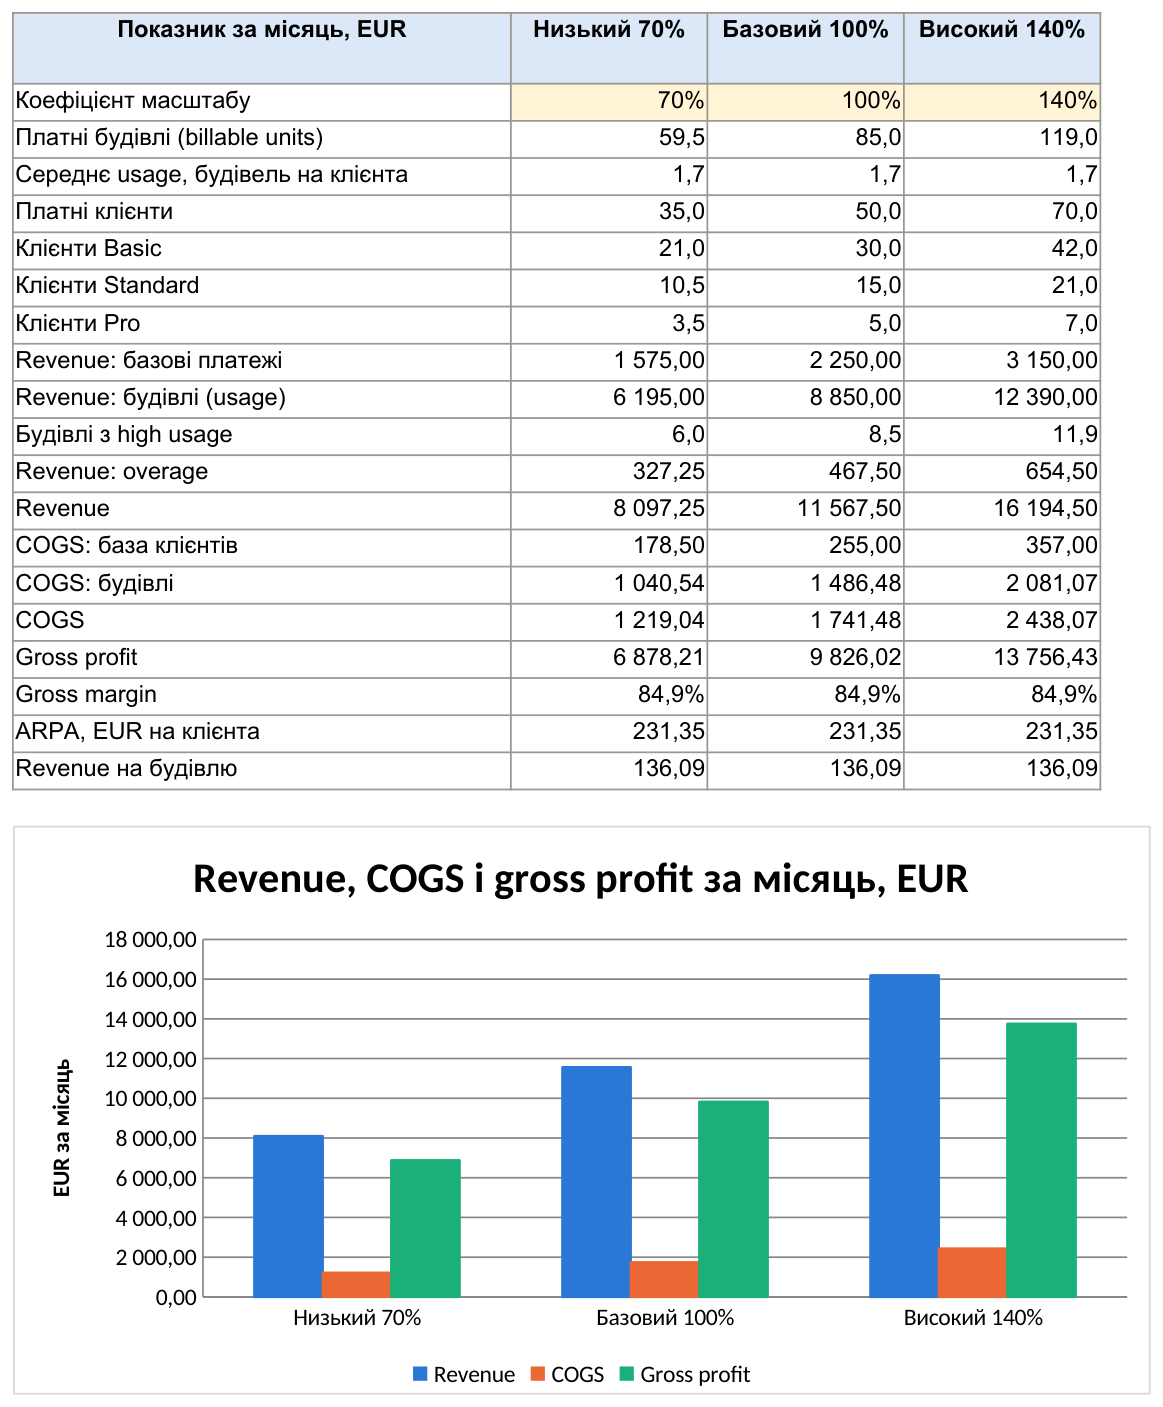
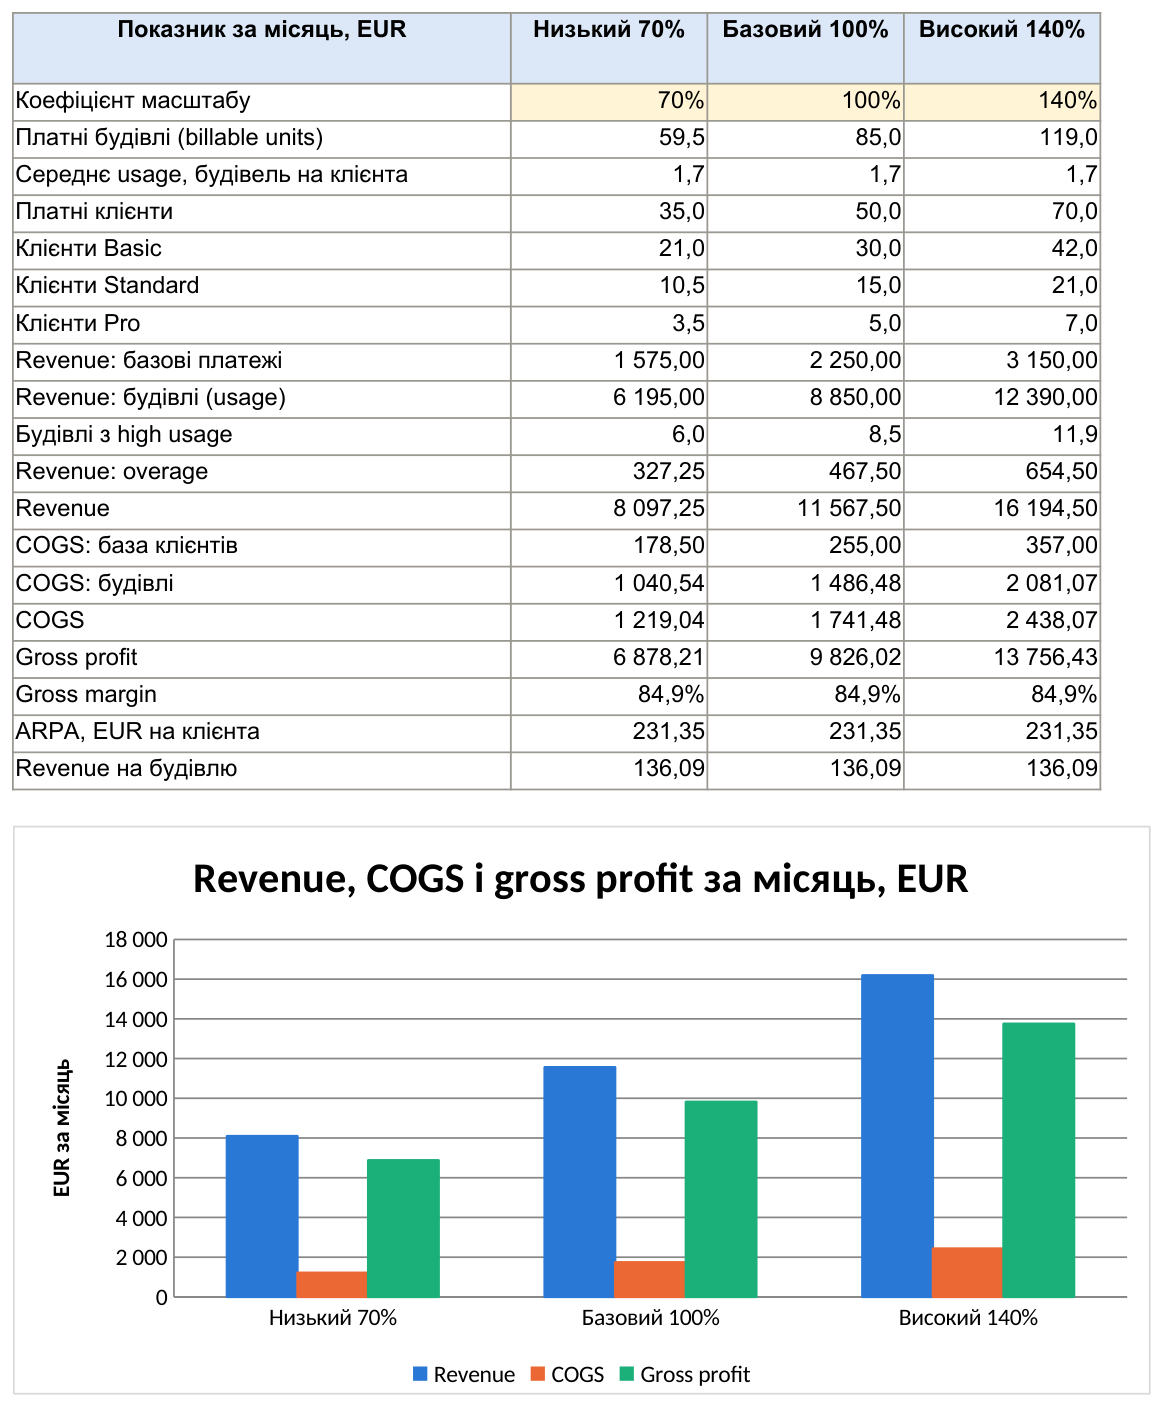
Lab 4 fixes: thousands axis format in scenario chart, left aligned workbook check cell

diff --git a/lab4/build_lab4.py b/lab4/build_lab4.py
@@ -10,6 +10,7 @@ import matplotlib.pyplot as plt
 import numpy as np
 from openpyxl import Workbook, load_workbook
 from openpyxl.chart import BarChart, Reference
+from openpyxl.styles import Alignment
 from openpyxl.utils import get_column_letter
 
 ROOT = Path(__file__).resolve().parent
@@ -93,6 +94,7 @@ def sheet_params(wb):
         k.name(wb, key, f"'Параметри ЛР4'!$C${n + 2 + j}")
         ws.cell(n + 2 + j, 3).number_format = "0.00"
     k.style_table(ws, 1, 1, n + 5, 6)
+    ws.cell(n + 2, 6).alignment = Alignment(horizontal="left", vertical="center")
     col_widths(ws, [14, 36, 11, 14, 6, 40])
     k.page(ws, landscape=False)
     LAYOUT["params_extra"] = n + 2
@@ -260,6 +262,7 @@ def sheet_scenarios(wb):
     ch.grouping = "clustered"
     ch.title = "Revenue, COGS і gross profit за місяць, EUR"
     ch.y_axis.title = "EUR за місяць"
+    ch.y_axis.number_format = "#,##0"
     for r, color in ((13, "2a78d6"), (16, "eb6834"), (17, "1baf7a")):
         ref = Reference(ws, min_col=1, max_col=4, min_row=r, max_row=r)
         ch.add_data(ref, titles_from_data=True, from_rows=True)
